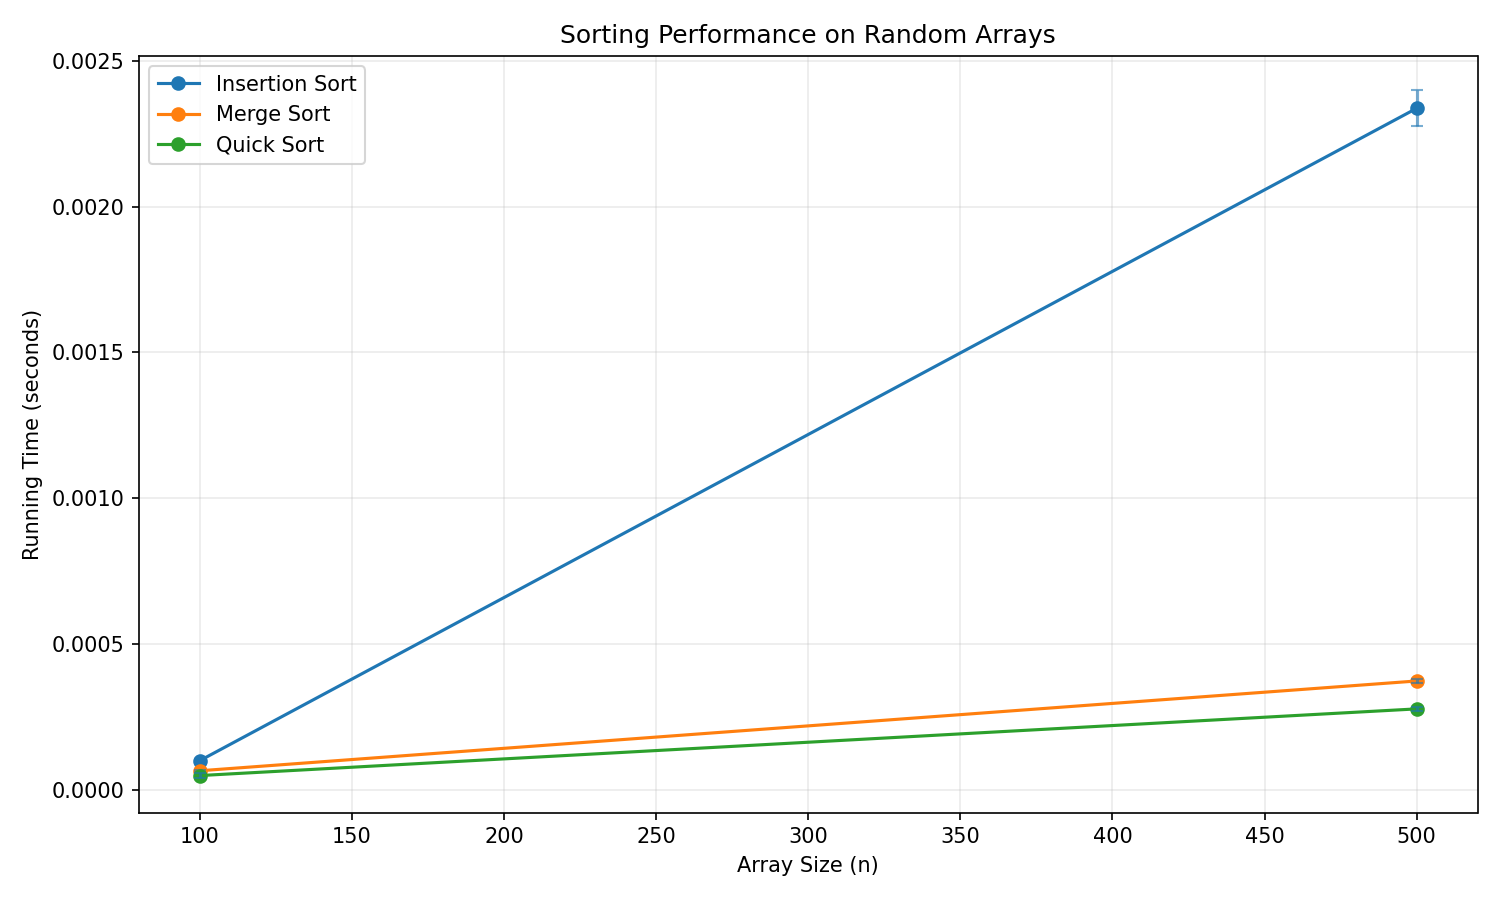
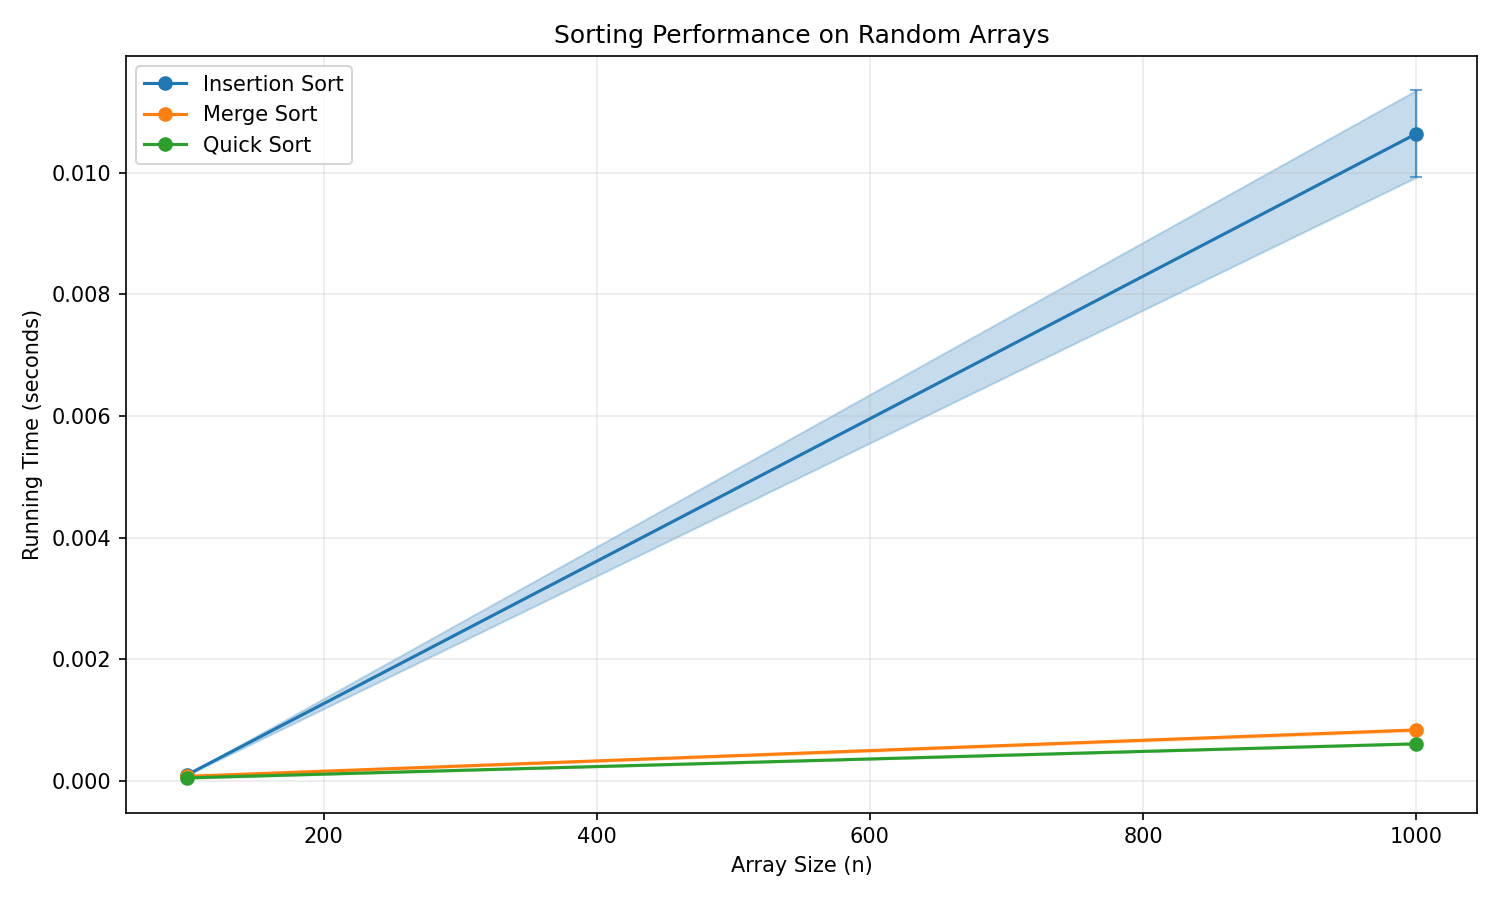
Update README with detailed algorithm descriptions, execution instructions, and output file information; modify run_experiments.py to include default array sizes and improve argument validation; enhance plotting functionality for clearer result visualization.

diff --git a/run_experiments.py b/run_experiments.py
@@ -13,9 +13,17 @@ import matplotlib.pyplot as plt
 
 NOISE_LEVEL_BY_EXPERIMENT = {1: 0.05, 2: 0.20}
 ALGORITHM_NAMES = {3: "Insertion Sort", 4: "Merge Sort", 5: "Quick Sort"}
-QUADRATIC_ALGORITHMS = {3}
-MAX_QUADRATIC_SIZE = 50_000
 DEFAULT_RANDOM_SEED = 42
+DEFAULT_SIZES = [
+    5_000,
+    10_000,
+    20_000,
+    50_000,
+    100_000,
+    250_000,
+    500_000,
+    1_000_000,
+]
 
 
 @dataclass(frozen=True)
@@ -30,7 +38,6 @@ class Measurement:
     size: int
     mean_seconds: float
     std_seconds: float
-    skipped: bool = False
 
 
 def insertion_sort(values: list[int]) -> list[int]:
@@ -111,9 +118,29 @@ def quick_sort(values: list[int]) -> list[int]:
 
 
 def parse_args() -> argparse.Namespace:
-    parser = argparse.ArgumentParser(description="Run sorting algorithm experiments and create required plots.")
-    parser.add_argument("-a", "--algorithms", nargs="+", type=int, required=True, help="Algorithm IDs to compare.")
-    parser.add_argument("-s", "--sizes", nargs="+", type=int, required=True, help="Array sizes to evaluate.")
+    parser = argparse.ArgumentParser(
+        description="Run sorting algorithm experiments and create required plots.",
+        epilog=(
+            "Course algorithm IDs: 1=Bubble, 2=Selection, 3=Insertion, 4=Merge, 5=Quick. "
+            "This file implements 3, 4, 5 only; use e.g. -a 3 4 5."
+        ),
+    )
+    parser.add_argument(
+        "-a",
+        "--algorithms",
+        nargs="+",
+        type=int,
+        required=True,
+        help="Exactly three algorithm IDs for this submission: 3=Insertion, 4=Merge, 5=Quick (course table 1-5; see README).",
+    )
+    parser.add_argument(
+        "-s",
+        "--sizes",
+        nargs="*",
+        type=int,
+        default=None,
+        help=f"Array sizes (default: {DEFAULT_SIZES}).",
+    )
     parser.add_argument(
         "-e",
         "--experiment",
@@ -135,9 +162,10 @@ def validate_args(args: argparse.Namespace) -> None:
         raise ValueError(f"Invalid algorithm IDs: {invalid_algorithms}. Allowed IDs are 3, 4, 5.")
     if len(set(args.algorithms)) != len(args.algorithms):
         raise ValueError("Algorithm IDs must be unique.")
-    if not args.sizes:
-        raise ValueError("Please provide at least one size with -s.")
-    if any(size <= 0 for size in args.sizes):
+    sizes = args.sizes if args.sizes else DEFAULT_SIZES
+    if not sizes:
+        raise ValueError("Array sizes list is empty.")
+    if any(size <= 0 for size in sizes):
         raise ValueError("All array sizes must be positive integers.")
     if args.repetitions <= 0:
         raise ValueError("Repetitions must be a positive integer.")
@@ -159,17 +187,13 @@ def resolve_algorithms(algorithm_ids: list[int]) -> list[AlgorithmConfig]:
     ]
 
 
-def should_skip_size(algorithm_id: int, size: int) -> bool:
-    return algorithm_id in QUADRATIC_ALGORITHMS and size > MAX_QUADRATIC_SIZE
-
-
 def generate_random_array(size: int, rng: Random) -> list[int]:
     return [rng.randint(0, 1_000_000) for _ in range(size)]
 
 
 def generate_nearly_sorted_array(size: int, noise_fraction: float, rng: Random) -> list[int]:
     arr = list(range(size))
-    swap_count = max(1, int(size * noise_fraction))
+    swap_count = max(1, round(size * noise_fraction))
     for _ in range(swap_count):
         i = rng.randrange(size)
         j = rng.randrange(size)
@@ -187,9 +211,6 @@ def run_experiment(
     metrics: dict[str, list[Measurement]] = {algorithm.name: [] for algorithm in algorithms}
     for size in sizes:
         for algorithm in algorithms:
-            if should_skip_size(algorithm.algorithm_id, size):
-                metrics[algorithm.name].append(Measurement(size=size, mean_seconds=math.nan, std_seconds=math.nan, skipped=True))
-                continue
             runs: list[float] = []
             for rep_idx in range(repetitions):
                 rng = Random(seed + (size * 10_000) + rep_idx)
@@ -206,13 +227,20 @@ def run_experiment(
 
 def plot_results(metrics: dict[str, list[Measurement]], output_path: str, title: str) -> None:
     plt.figure(figsize=(10, 6))
-    for name, measurements in metrics.items():
+    prop_cycle = plt.rcParams["axes.prop_cycle"].by_key().get("color", ["#1f77b4", "#ff7f0e", "#2ca02c"])
+    for idx, (name, measurements) in enumerate(metrics.items()):
+        if not measurements:
+            continue
+        color = prop_cycle[idx % len(prop_cycle)]
         x = [m.size for m in measurements]
         y = [m.mean_seconds for m in measurements]
         yerr = [0.0 if math.isnan(m.std_seconds) else m.std_seconds for m in measurements]
-        plt.plot(x, y, marker="o", label=name)
-        if any(not math.isnan(v) and v > 0 for v in yerr):
-            plt.errorbar(x, y, yerr=yerr, fmt="none", capsize=3, alpha=0.6)
+        lower = [max(0.0, yi - ei) for yi, ei in zip(y, yerr)]
+        upper = [yi + ei for yi, ei in zip(y, yerr)]
+        plt.fill_between(x, lower, upper, alpha=0.25, color=color)
+        plt.plot(x, y, marker="o", markersize=8, label=name, color=color)
+        if any(e > 0 for e in yerr):
+            plt.errorbar(x, y, yerr=yerr, fmt="none", capsize=3, alpha=0.65, linewidth=1, color=color, ecolor=color)
     plt.xlabel("Array Size (n)")
     plt.ylabel("Running Time (seconds)")
     plt.title(title)
@@ -228,9 +256,6 @@ def print_summary(metrics: dict[str, list[Measurement]]) -> None:
     for name, measurements in metrics.items():
         print(f"\n{name}")
         for measurement in measurements:
-            if measurement.skipped:
-                print(f"  n={measurement.size:<8} skipped (adaptive cap)")
-                continue
             print(f"  n={measurement.size:<8} {measurement.mean_seconds:.6f} +/- {measurement.std_seconds:.6f}")
 
 
@@ -238,7 +263,7 @@ def main() -> None:
     args = parse_args()
     validate_args(args)
     algorithms = resolve_algorithms(args.algorithms)
-    sizes = sorted(args.sizes)
+    sizes = sorted(args.sizes if args.sizes else DEFAULT_SIZES)
     noise_fraction = NOISE_LEVEL_BY_EXPERIMENT[args.experiment]
 
     random_metrics = run_experiment(

diff --git a/README.md b/README.md
@@ -4,24 +4,32 @@
 - Yoav Hamburger
 
 ## Selected Algorithms
-- 3 - Insertion Sort
-- 4 - Merge Sort
-- 5 - Quick Sort
+Per the assignment list, this submission implements and compares:
+- **3** – Insertion Sort  
+- **4** – Merge Sort  
+- **5** – Quick Sort  
+
+(The course handout maps IDs 1–5 to Bubble, Selection, Insertion, Merge, and Quick; only the three above are implemented here.)
 
 ## How To Run
-Example command from the assignment:
+
+Assignment example (use `py` on Windows if `python` is not on your PATH):
+
+`python run_experiments.py -a 3 4 5 -s 100 500 3000 -e 1 -r 20`
+
+This submission’s algorithm choice:
 
 `py run_experiments.py -a 3 4 5 -s 100 500 3000 -e 1 -r 20`
 
-CLI arguments:
-- `-a`: exactly 3 algorithm IDs to compare (supported IDs: `3`, `4`, `5`)
-- `-s`: array sizes
-- `-e`: nearly-sorted experiment type (`1` = 5% noise, `2` = 20% noise)
-- `-r`: repetitions per size
+If you omit `-s`, the script uses default sizes from **5,000** up to **1,000,000** (larger `n` so the curve shows growth clearly).
 
-The script saves:
-- `result1.png` - random arrays experiment
-- `result2.png` - nearly sorted arrays experiment
+CLI:
+- **`-a`** – exactly three algorithm IDs (here: `3`, `4`, `5`)
+- **`-s`** – array sizes (optional; default starts at **5,000** and goes up to **1,000,000**)
+- **`-e`** – `1` = nearly sorted with **5%** random swaps, `2` = **20%**
+- **`-r`** – repetitions per size
+
+Outputs: **`result1.png`** (random arrays), **`result2.png`** (nearly sorted with noise).
 
 ## Result 1 - Random Arrays
 ![Random arrays comparison](result1.png)
@@ -32,5 +40,4 @@ Merge Sort and Quick Sort remain significantly faster and scale better for large
 ## Result 2 - Nearly Sorted Arrays
 ![Nearly sorted comparison](result2.png)
 
-With 5% noise, Insertion Sort becomes noticeably faster than in fully random arrays because the input is close to sorted.  
-Merge Sort and Quick Sort are still fast, with Quick Sort generally the fastest in this run; overall ranking is similar, but the gap to Insertion Sort is reduced compared to `result1.png`.
+For **result2**, running times change versus **result1** because the input starts sorted and is only partially perturbed (random swaps at the chosen noise level). Insertion Sort improves the most on nearly sorted data because it makes fewer shifts when the sequence is already close to order. Merge Sort and Quick Sort still perform well; the relative gaps between algorithms narrow compared to fully random inputs.
